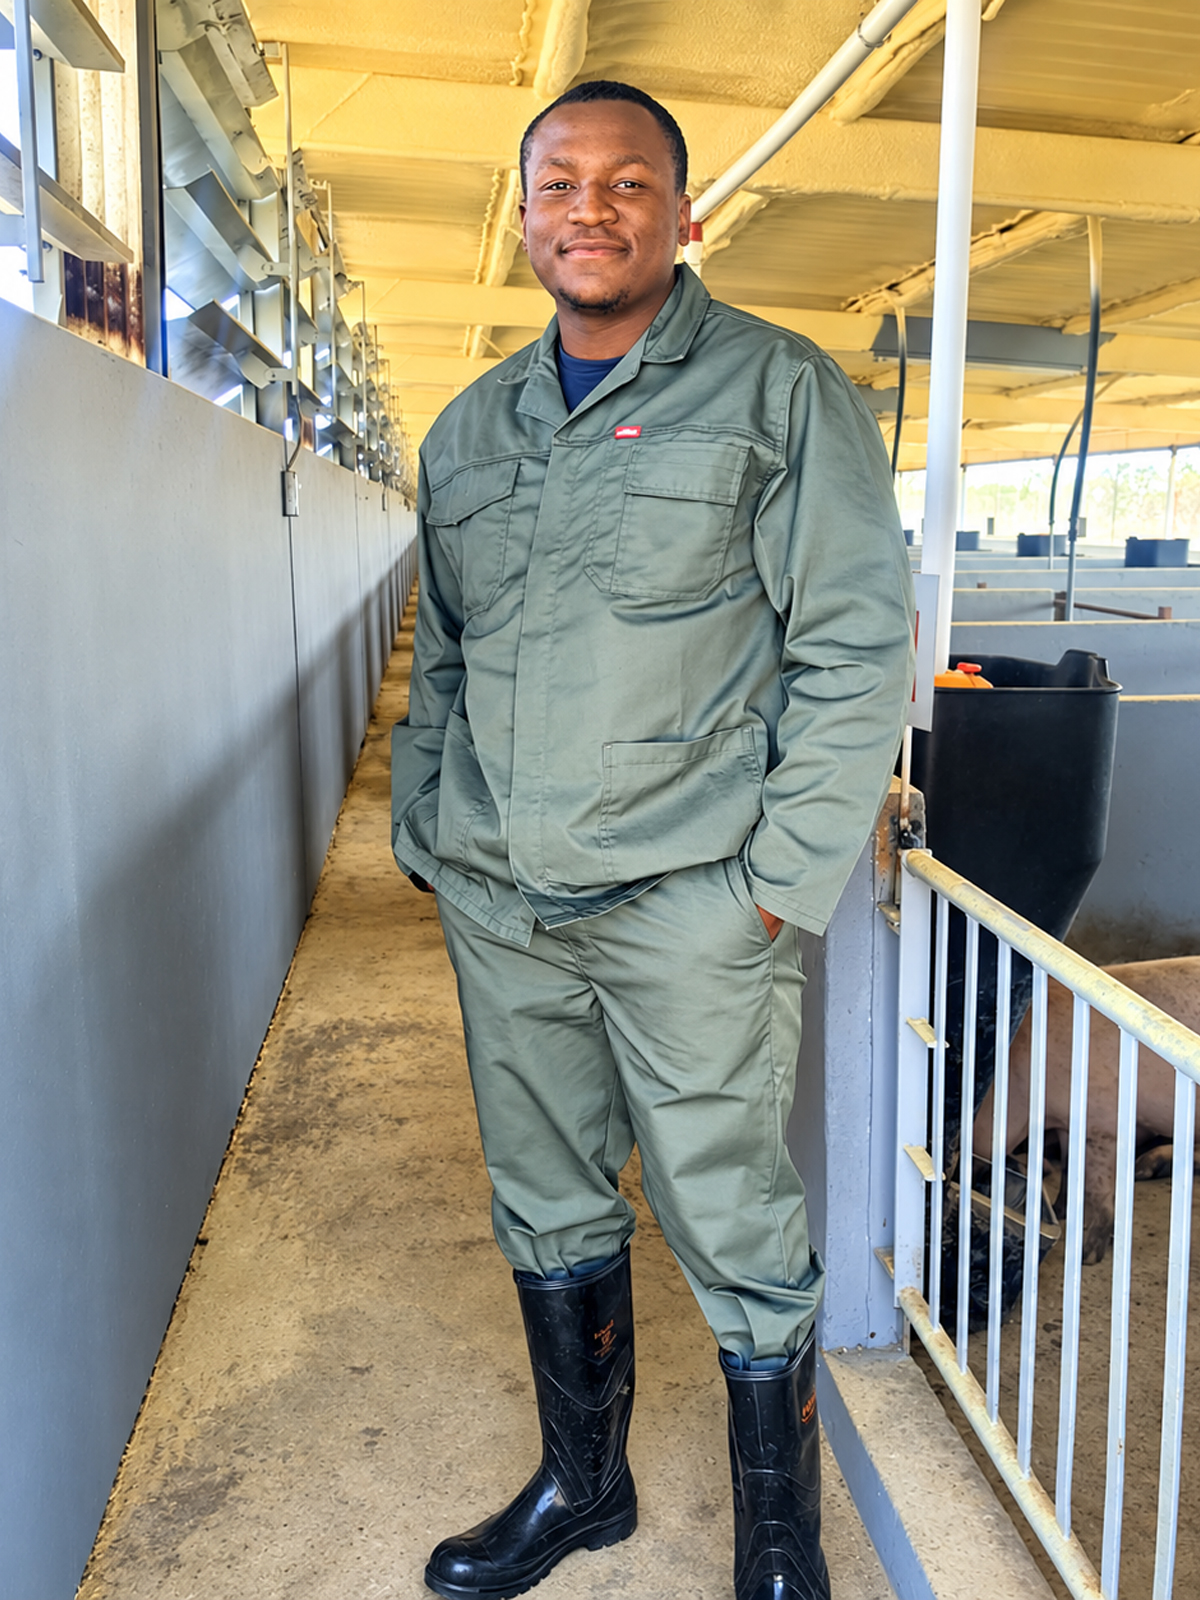
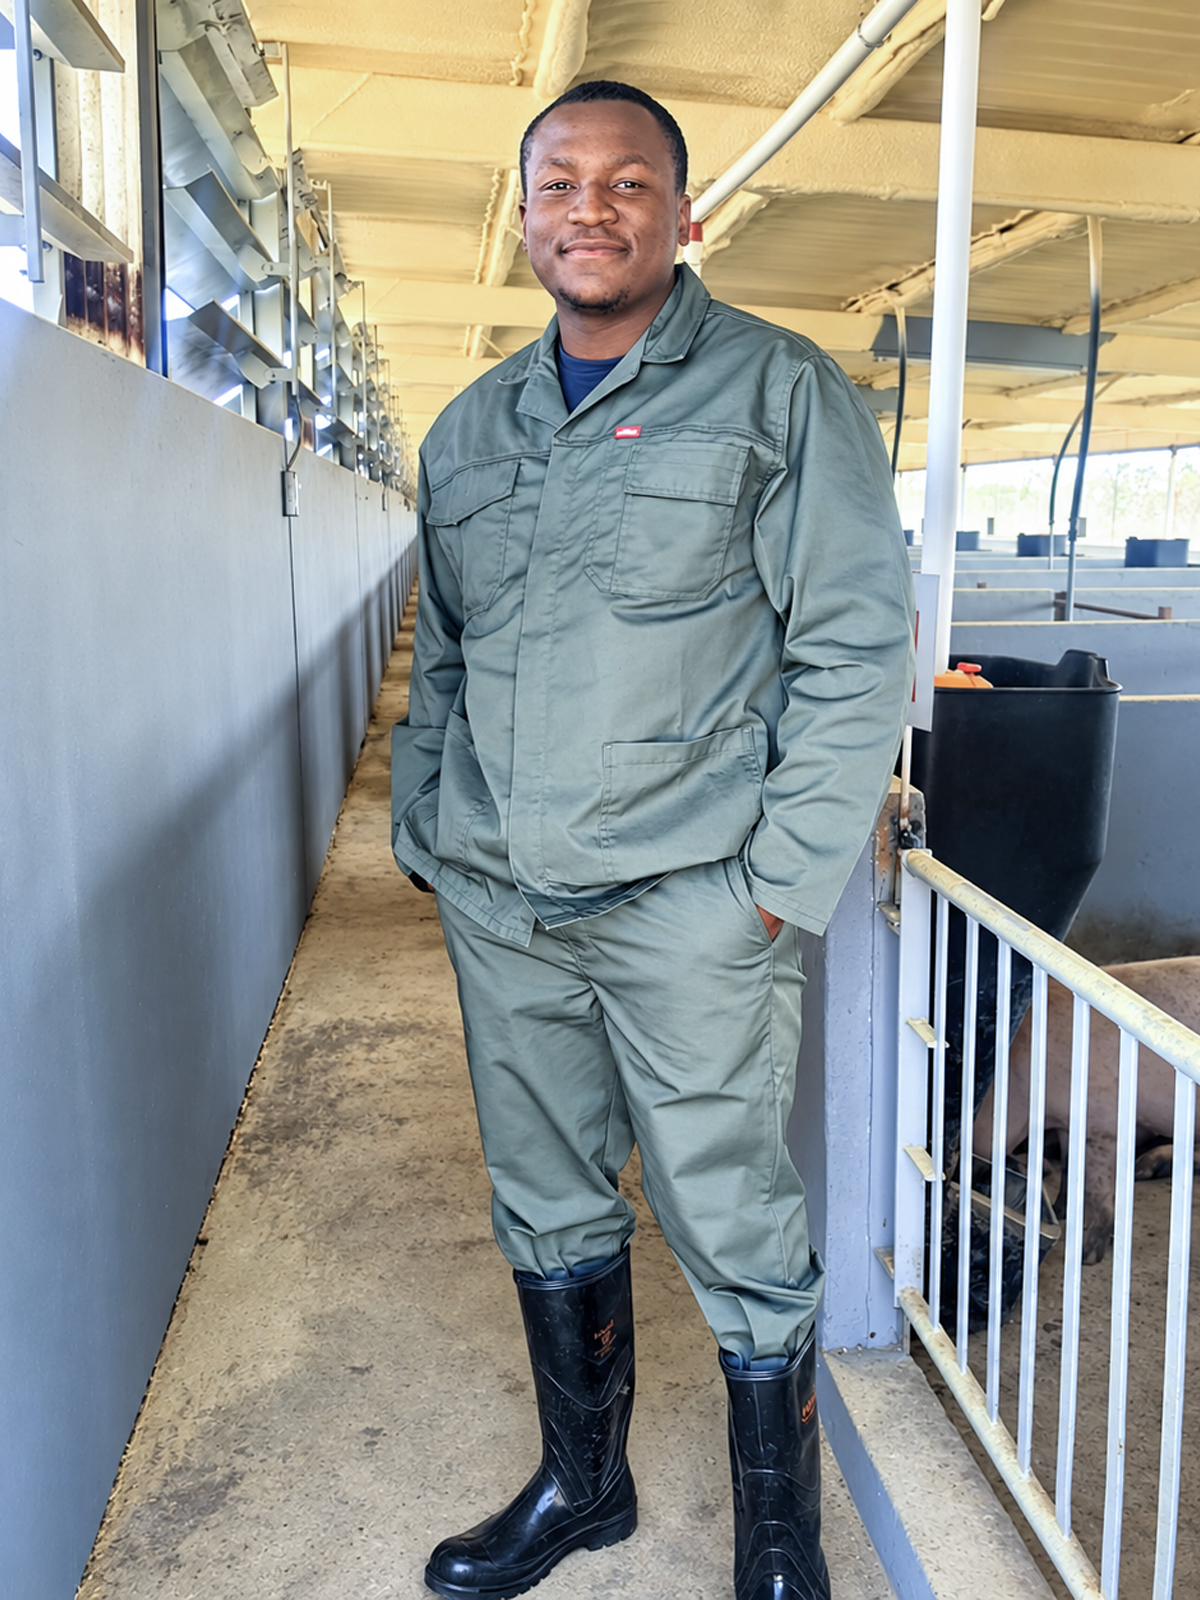
Add files via upload

diff --git a/products.html b/products.html
@@ -115,11 +115,11 @@
         </header>
         <!--+breadcrumbs-->
         <section class="breadcrumbs-custom">
-            <div class="parallax-container" data-parallax-img="images/bg-about.jpg">
+            <div class="parallax-container" data-parallax-img="images/rhadasi-bg.jpg">
                 <div class="breadcrumbs-custom-body parallax-content context-dark">
                     <div class="container">
-                        <h2 class="breadcrumbs-custom-title" style="color: #c9a227;font-weight: bold; text-transform: uppercase; letter-spacing: 3px; font-size: 38px;
-    margin-bottom: 15px;">Rhadasi</h2>
+                        <!-- <h2 class="breadcrumbs-custom-title" style="color: #c9a227;font-weight: bold; text-transform: uppercase; letter-spacing: 3px; font-size: 38px;
+    margin-bottom: 15px;"></h2> -->
                     </div>
                 </div>
             </div>
@@ -168,7 +168,7 @@
                         bring the value of sorghum to more people.</p>
 
                     <div class="col-sm-6 col-md-6 col-lg-6 wow fadeInLeft">
-                        <img src="images/mabele-fine.png" style="border-radius: 5px;" alt="" width="576" height="410" />
+                        <img src="images/mabele-fine.jpg" style="border-radius: 5px;" alt="" width="576" height="410" />
                     </div>
                     <div class="col-md-7 col-lg-6 col-xl-6 d-flex flex-column justify-content-center">
                         <h4 class="title-style-1 wow fadeInRight">Sorghum Meal</h4>
@@ -228,9 +228,10 @@
                                         data-icon-active="images/gmap_marker_active.png"></li>
                                 </ul>
                                 <iframe
-                                    src="https://www.google.com/maps/embed?pb=!1m18!1m12!1m3!1d28066.12433960514!2d30.19728929444327!3d-28.441410613125733!2m3!1f0!2f0!3f0!3m2!1i1024!2i768!4f13.1!3m3!1m2!1s0x1ef18bd834e6a555%3A0x14fd426bbac672ad!2sKlippoort%2C%20Mchunu!5e0!3m2!1sen!2sza!4v1790190908036!5m2!1sen!2sza"
-                                    width="auto" height="auto" style="border:0; border-radius: 6px;" allowfullscreen=""
-                                    loading="lazy" referrerpolicy="strict-origin-when-cross-origin"></iframe>
+                                    src="https://maps.google.com/maps?q=NAGA%20Farming,%20JS%20277%20Klippoort,%20eMalahleni,%20Mpumalanga&t=&z=15&ie=UTF8&iwloc=&output=embed"
+                                    width="100%" height="100%" style="border:0; border-radius: 6px;" allowfullscreen="" loading="lazy"
+                                    referrerpolicy="no-referrer-when-downgrade">
+                                </iframe>
                             </div>
                         </div>
                     </div>

diff --git a/index.html b/index.html
@@ -118,7 +118,7 @@
         </p>
         <div class="button-wrap">
           <a class="button button-sm button-shadow-3 button-primary button-rhadasi" href="products.html">Explore Our
-            Projucts</a>
+            Products</a>
         </div>
       </div>
     </section>
@@ -204,7 +204,7 @@
       <div class="container">
         <div class="row row-30 align-items-center justify-content-center justify-content-xl-between">
           <!-- <div class="col-md-7 col-lg-6 col-xl-5"> -->
-          <h4 class="title-style-1 wow fadeInRight" style="color: #123524">NAGA FARMING</h4>
+          <h4 class="title-style-1 wow fadeInRight" style="color: #123524">NAGA MALT</h4>
           <h2 class="wow fadeInRight" data-wow-delay=".1s" style="color: #fff;">Building a modern South African sorghum
             malting brand.</h2>
           <blockquote>
@@ -241,15 +241,15 @@
                 data-center="JS 277 Klippoort, eMalahleni (Witbank), Mpumalanga, South Africa.">
                 <ul class="google-map-markers">
                   <li data-location="JS 277 Klippoort, eMalahleni (Witbank), Mpumalanga, South Africa."
-                    data-description="9870 St Vincent Place, Glasgow" data-icon="images/gmap_marker.png"
+                    data-description="NaGA Farm, JS 277 Klippoort, eMalahleni, Mpumalanga" data-icon="images/gmap_marker.png"
                     data-icon-active="images/gmap_marker_active.png"></li>
                 </ul>
                 <iframe
-                  src="https://www.google.com/maps/embed?pb=!1m18!1m12!1m3!1d28066.12433960514!2d30.19728929444327!3d-28.441410613125733!2m3!1f0!2f0!3f0!3m2!1i1024!2i768!4f13.1!3m3!1m2!1s0x1ef18bd834e6a555%3A0x14fd426bbac672ad!2sKlippoort%2C%20Mchunu!5e0!3m2!1sen!2sza!4v1790190908036!5m2!1sen!2sza"
-                  width="auto" height="auto" style="border:0; border-radius: 6px;" allowfullscreen="" loading="lazy"
-                  referrerpolicy="strict-origin-when-cross-origin"></iframe>
+                  src="https://maps.google.com/maps?q=NAGA%20Farming,%20JS%20277%20Klippoort,%20eMalahleni,%20Mpumalanga&t=&z=15&ie=UTF8&iwloc=&output=embed"
+                  width="100%" height="100%" style="border:0; border-radius: 6px;" allowfullscreen="" loading="lazy"
+                  referrerpolicy="no-referrer-when-downgrade">
+                </iframe>
               </div>
-            </div>
           </div>
         </div>
       </div>

diff --git a/contact-us.html b/contact-us.html
@@ -129,7 +129,7 @@
         <!-- Section Contact Us-->
         <section class="section section-fluid section-xl" style="background-color: #f5f1e6;">
             <div class="container">
-                <p class="lead">Interested in RHADASI, our sorghum products, or working with Naga Farming?</p>
+                <p class="lead">Interested in RHADASI, our sorghum products, or working with Naga Malt?</p>
                 <p>Contact Naga Malt. We would love to hear from you. Whether you are a traditional brewer, craft
                     brewer, business, or
                     potential partner, get in touch with our team.</p>
@@ -158,7 +158,7 @@
                             <div class="box-info-classic-2 h-100">
                                 <h4 class="box-info-classic-title">Email</h4>
                                 <p class="box-info-classic-text"><a
-                                        href="mailto:daniel.nagamalt.com">daniel.nagamalt.com</a>
+                                        href="mailto:daniel@nagamalt.com">daniel@nagamalt.com</a>
                                 </p>
                             </div>
                         </div>
@@ -328,9 +328,10 @@
                                     data-icon-active="images/gmap_marker_active.png"></li>
                             </ul>
                             <iframe
-                                src="https://www.google.com/maps/embed?pb=!1m18!1m12!1m3!1d28066.12433960514!2d30.19728929444327!3d-28.441410613125733!2m3!1f0!2f0!3f0!3m2!1i1024!2i768!4f13.1!3m3!1m2!1s0x1ef18bd834e6a555%3A0x14fd426bbac672ad!2sKlippoort%2C%20Mchunu!5e0!3m2!1sen!2sza!4v1790190908036!5m2!1sen!2sza"
-                                width="auto" height="auto" style="border:0; border-radius: 6px;" allowfullscreen=""
-                                loading="lazy" referrerpolicy="strict-origin-when-cross-origin"></iframe>
+                                src="https://maps.google.com/maps?q=NAGA%20Farming,%20JS%20277%20Klippoort,%20eMalahleni,%20Mpumalanga&t=&z=15&ie=UTF8&iwloc=&output=embed"
+                                width="100%" height="100%" style="border:0; border-radius: 6px;" allowfullscreen="" loading="lazy"
+                                referrerpolicy="no-referrer-when-downgrade">
+                            </iframe>
                         </div>
                     </div>
                 </div>

diff --git a/css/style.css b/css/style.css
@@ -13324,7 +13324,7 @@ html.tablet .ui-to-top {
 
 .rd-navbar-fixed .rd-navbar-nav-wrap {
 	color: #ffffff;
-	background: #ffffff;
+	background: #123524;
 	border: 1px solid #d7d7d7;
 	box-shadow: 0 0 5px 0 rgba(1, 3, 4, 0.19);
 }
@@ -19427,7 +19427,6 @@ body:not(.lg-from-hash) .lg-outer.lg-start-zoom .lg-item.lg-complete .lg-object 
 	bottom: 0;
 	min-width: 101%;
 	min-height: 101%;
-	max-width: none;
 	transform: translate3d(-50%, 0, 0);
 }
 
@@ -21481,5 +21480,46 @@ html#ecwid_html body#ecwid_body .ec-size.ec-size--m .ec-store .details-gallery__
 	color: var(--dark-green);
 	font-weight: bold;
 	border-radius: 4px;
+}
+
+/* Ensure the Jumbotron container scales responsively */
+.breadcrumbs-custom {
+	position: relative;
+	width: 100%;
+	overflow: hidden;
+}
+
+/* Force parallax container image aspect-ratio and fitting */
+.breadcrumbs-custom .parallax-container {
+	width: 100%;
+	height: auto !important;
+	min-height: 200px;
+	/* Adjust min-height for small mobile screens if needed */
+	background-size: cover !important;
+	background-position: center center !important;
+	background-repeat: no-repeat !important;
+}
+
+/* Target the image generated by the parallax JS library on mobile/small screens */
+.parallax-container img.material-parallax,
+.parallax-container .parallax-content {
+	width: 100% !important;
+	max-width: 100% !important;
+	object-fit: cover;
+}
+
+/* Adjust overlay padding/height dynamically for small devices */
+@media (max-width: 767.98px) {
+	.breadcrumbs-custom-body {
+		padding: 80px 15px !important;
+		/* Reduces vertical height so image isn't oversized */
+	}
+
+	.breadcrumbs-custom-title {
+		font-size: 26px !important;
+		/* Scaled text size to fit cleanly on narrow displays */
+		letter-spacing: 1.5px !important;
+		margin-bottom: 0 !important;
+	}
 }
 

diff --git a/about-us.html b/about-us.html
@@ -108,7 +108,8 @@
     </header>
     <!--+breadcrumbs-->
     <section class="breadcrumbs-custom">
-      <div class="parallax-container" data-parallax-img="images/bg-about.jpg">
+      <div class="parallax-container img-fluid" data-parallax-img="images/bg-about.jpg"
+        style="background-image: url('images/bg-about.jpg');">
         <div class="breadcrumbs-custom-body parallax-content context-dark">
           <div class="container">
             <h2 class="breadcrumbs-custom-title" style="color: #c9a227;font-weight: bold; text-transform: uppercase; letter-spacing: 3px; font-size: 38px;
@@ -291,9 +292,10 @@
                     data-icon-active="images/gmap_marker_active.png"></li>
                 </ul>
                 <iframe
-                  src="https://www.google.com/maps/embed?pb=!1m18!1m12!1m3!1d28066.12433960514!2d30.19728929444327!3d-28.441410613125733!2m3!1f0!2f0!3f0!3m2!1i1024!2i768!4f13.1!3m3!1m2!1s0x1ef18bd834e6a555%3A0x14fd426bbac672ad!2sKlippoort%2C%20Mchunu!5e0!3m2!1sen!2sza!4v1790190908036!5m2!1sen!2sza"
-                  width="auto" height="auto" style="border:0; border-radius: 6px;" allowfullscreen="" loading="lazy"
-                  referrerpolicy="strict-origin-when-cross-origin"></iframe>
+                  src="https://maps.google.com/maps?q=NAGA%20Farming,%20JS%20277%20Klippoort,%20eMalahleni,%20Mpumalanga&t=&z=15&ie=UTF8&iwloc=&output=embed"
+                  width="100%" height="100%" style="border:0; border-radius: 6px;" allowfullscreen="" loading="lazy"
+                  referrerpolicy="no-referrer-when-downgrade">
+                </iframe>
               </div>
             </div>
           </div>
